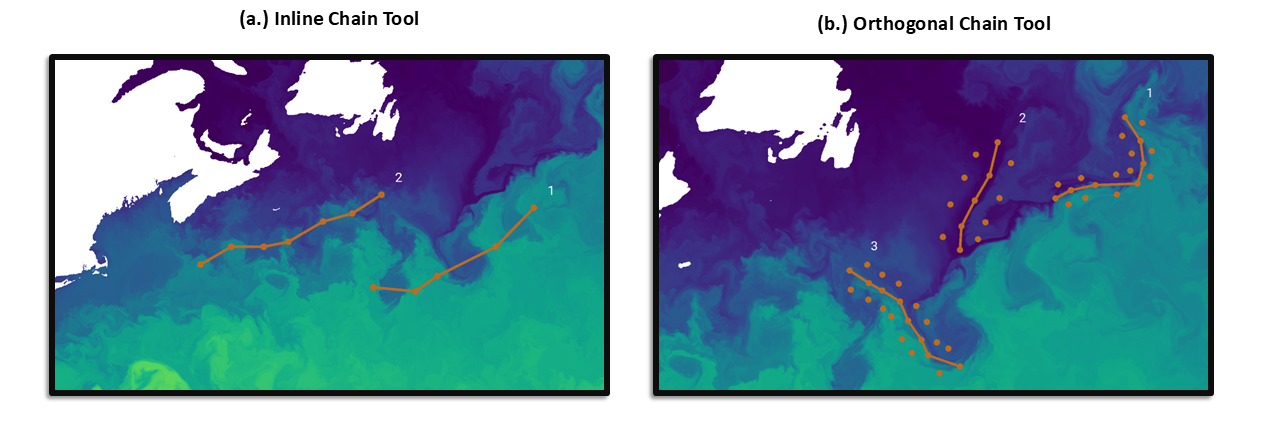
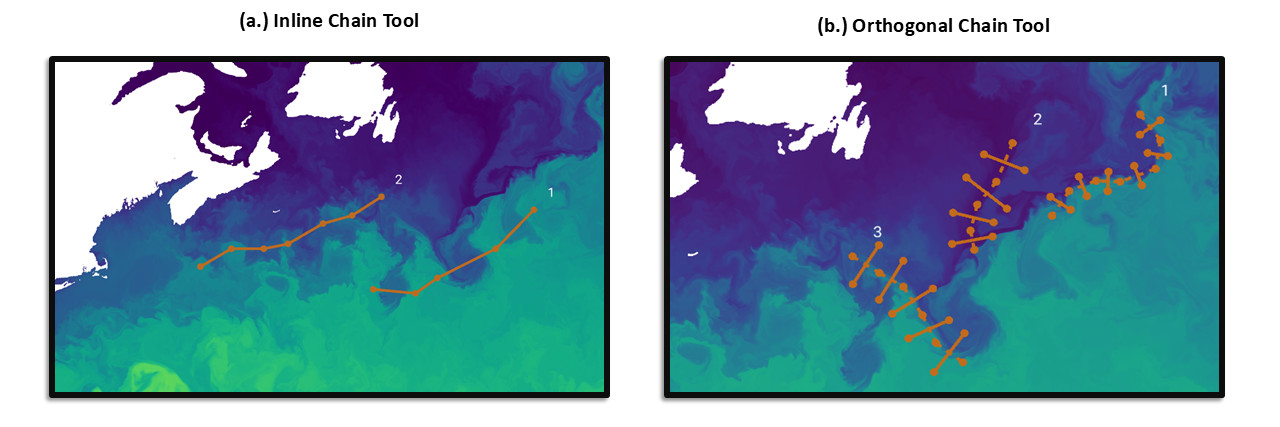
More clear visualization for orthogonal chain tool

diff --git a/src/nccut/orthogonalchain.py b/src/nccut/orthogonalchain.py
@@ -7,6 +7,7 @@ Singular orthogonal chain widget.
 
 Graphics and functionality of a singular orthogonal chain created by the orthogonal chain tool.
 """
+import copy
 
 import kivy.uix as ui
 from kivy.metrics import dp
@@ -16,6 +17,23 @@ import math
 import numpy as np
 from kivy.core.window import Window
 import nccut.functions as functions
+
+
+class Click:
+    """
+    Object that mimics a user click.
+
+    Attributes:
+        x (float): X coordinate of click point
+        y (float): Y coordinate of click point
+        pos (tuple): 2 element tuple: (X coord, Y coord)
+    """
+    def __init__(self, x, y):
+        self.x = x
+        self.y = y
+        self.pos = (x, y)
+        self.is_double_tap = False
+        self.button = "left"
 
 
 class OrthogonalChain(ui.widget.Widget):
@@ -32,7 +50,6 @@ class OrthogonalChain(ui.widget.Widget):
         t_width (int): Current width in pixels of orthogonal transects
         home: Reference to root :class:`nccut.homescreen.HomeScreen` instance
         transects (list): List of transects made
-        curr_line: kivy.graphics.Line, Line between cursor and last clicked
         number: kivy.uix.label.Label, Reference to the number label
         size: 2 element array of ints, Size of widget
         pos: 2 element array of ints, Position of widget
@@ -55,7 +72,6 @@ class OrthogonalChain(ui.widget.Widget):
         self.uploaded = False
         self.home = home
         self.transects = []
-        self.curr_line = Line()
         self.number = None
         self.size = self.home.display.size
         self.pos = self.home.display.pos
@@ -93,7 +109,6 @@ class OrthogonalChain(ui.widget.Widget):
         for g in groups:
             for i in g:
                 self.canvas.add(i)
-        self.canvas.add(self.curr_line)
         if self.clicks > 0:
             self.add_widget(self.number)
 
@@ -104,20 +119,15 @@ class OrthogonalChain(ui.widget.Widget):
         Args:
             value (float): New graphics size
         """
-        self.line_width = dp(value / 5)
-        for c in range(1, self.clicks + 1):
-            group = self.canvas.get_group(str(c))
-            for i in group:
-                if isinstance(i, Ellipse):
-                    i.size = (dp(value), dp(value))
-                    i.pos = (i.pos[0] + self.c_size[0] / 2 - dp(value) / 2,
-                             i.pos[1] + self.c_size[1] / 2 - dp(value) / 2)
-                elif isinstance(i, Line):
-                    i.width = self.line_width
-        if self.clicks > 0:
-            self.number.font_size = dp(value) * 2
-        self.curr_line.width = self.line_width
         self.c_size = (dp(value), dp(value))
+        self.line_width = dp(value / 5)
+        points = copy.copy(self.points)
+        for c in range(self.clicks):
+            self.del_point()
+        for p in points:
+            self.update_width(p[2])
+            self.on_touch_down(Click(p[0], p[1]))
+        self.stop_drawing()
 
     def update_width(self, width):
         """
@@ -139,19 +149,20 @@ class OrthogonalChain(ui.widget.Widget):
         """
         self.uploaded = val
 
-    def get_orthogonal(self, line):
+    def get_orthogonal(self, line_start, line_end):
         """
         Get a line orthogonal to line drawn by user to use as transect.
 
         Args:
-            line: kivy.graphics.Line, line between two last clicked points
+            line_start: x, y of start point
+            line_end: x, y of end point
 
         Returns:
             4 element array of floats: Coordinates of the two endpoints of the centered
             orthogonal line with length t_width.
         """
         xyswap = False
-        line = line.points
+        line = line_start + line_end
 
         if line[0] > line[2]:  # Always read from left point to right
             line = [line[2], line[3], line[0], line[1]]
@@ -183,12 +194,13 @@ class OrthogonalChain(ui.widget.Widget):
         yarr = (xarr * m + b).tolist()
         xarr = xarr.tolist()
 
-        # Draw points at ends of transect
+        # Draw points at ends of transect and line between them
         with self.canvas:
             Color(self.l_color.r, self.l_color.g, self.l_color.b)
             coords = [xarr[0], yarr[0], xarr[-1], yarr[-1]]
             if xyswap:
                 coords = [yarr[0], xarr[0], yarr[-1], xarr[-1]]
+            Line(points=[coords[0:2], coords[2:]], width=self.line_width, group=str(self.clicks))
             Ellipse(pos=(coords[0] - self.c_size[0] / 2, coords[1] - self.c_size[1] / 2),
                     size=self.c_size, group=str(self.clicks))
             Ellipse(pos=(coords[2] - self.c_size[0] / 2, coords[3] - self.c_size[1] / 2),
@@ -242,24 +254,19 @@ class OrthogonalChain(ui.widget.Widget):
                 Ellipse(pos=(touch.x - self.c_size[0] / 2, touch.y - self.c_size[1] / 2),
                         size=self.c_size, group=str(self.clicks))
                 self.points.append((touch.x, touch.y, self.t_width))
-                self.curr_line = Line(points=[], width=self.line_width, group=str(self.clicks + 1))
             # Draw line between last point and cursor whenever cursor position changes
             Window.bind(mouse_pos=self.draw_line)
             if self.clicks != 1:
-                # If 2nd or more click, create a line inbetween click points
-                with self.canvas:
-                    Color(self.l_color.r, self.l_color.g, self.l_color.b)
-                    line = Line(points=[self.points[-2][0:2], self.points[-1][0:2]],
-                                width=self.line_width, group=str(self.clicks))
+                # If 2nd or more click, create a dashed line inbetween click points
+                self.draw_dashed_line(str(self.clicks), self.points[-2][0:2], self.points[-1][0:2])
                 # Stores orthogonal line
-                coords = self.get_orthogonal(line)
+                coords = self.get_orthogonal(self.points[-2][0:2], self.points[-1][0:2])
                 if self.in_bounds(coords):
                     # Check if orthogonal points are within image bounds
                     self.transects.append(Line(points=coords, width=self.line_width))
                 else:
                     # Undo actions and alert user or parent
                     self.canvas.remove_group(str(self.clicks))
-                    self.canvas.remove(self.curr_line)
                     self.clicks -= 1
                     self.points = self.points[:-1]
                     if self.uploaded:
@@ -287,9 +294,8 @@ class OrthogonalChain(ui.widget.Widget):
             if self.home.ids.view.collide_point(*self.home.ids.view.to_widget(*pos)):
                 mouse = self.to_widget(*pos)
                 if self.size[0] >= mouse[0] >= 0 and self.size[1] >= mouse[1] >= 0:
-                    with self.canvas:
-                        Color(self.l_color.r, self.l_color.g, self.l_color.b)
-                        self.curr_line.points = [self.points[-1][0:2], self.to_widget(pos[0], pos[1])]
+                    self.canvas.remove_group("temp")
+                    self.draw_dashed_line("temp", self.points[-1][0:2], self.to_widget(pos[0], pos[1]))
         else:
             # Don't draw if not current chain or in dragging mode
             self.stop_drawing()
@@ -298,9 +304,7 @@ class OrthogonalChain(ui.widget.Widget):
         """
         Remove line from most recent point to cursor.
         """
-        with self.canvas:
-            Color(self.l_color.r, self.l_color.g, self.l_color.b)
-            self.curr_line.points = self.curr_line.points[0:2]
+        self.canvas.remove_group("temp")
 
     def in_bounds(self, points):
         """
@@ -316,3 +320,47 @@ class OrthogonalChain(ui.widget.Widget):
             if min(d) < 0 or any([i[0] > i[1] for i in list(zip(d, self.size))]):
                 return False
         return True
+
+    def draw_dashed_line(self, group, start, end):
+        """
+        Draws a dashed line on the canvas between two points.
+
+        Args:
+            group: Canvas group to group line segments in
+            start: Tuple of (x, y) coordinates for the start point.
+            end: Tuple of (x, y) coordinates for the end point.
+        """
+        dash_length = self.line_width * 4
+        dash_gap = dash_length
+        x1, y1 = start
+        x2, y2 = end
+
+        # Calculate the total distance between start and end points
+        distance = np.sqrt((x2 - x1) ** 2 + (y2 - y1) ** 2)
+
+        # Calculate the direction unit vector (dx, dy)
+        dx = (x2 - x1) / distance
+        dy = (y2 - y1) / distance
+
+        # Total number of segments (dash + gap) to cover the distance
+        segment_length = dash_length + dash_gap
+        num_segments = int(distance // segment_length)
+
+        with self.canvas:
+            Color(self.l_color.r, self.l_color.g, self.l_color.b)  # Set the color for the line
+            for i in range(num_segments + 1):
+                # Start point of the dash segment
+                segment_start_x = x1 + i * segment_length * dx
+                segment_start_y = y1 + i * segment_length * dy
+
+                # End point of the dash segment
+                segment_end_x = segment_start_x + dash_length * dx
+                segment_end_y = segment_start_y + dash_length * dy
+
+                # Clip the last segment to the endpoint if it exceeds the total length
+                if np.sqrt((segment_end_x - x1) ** 2 + (segment_end_y - y1) ** 2) > distance:
+                    segment_end_x, segment_end_y = x2, y2
+
+                # Draw the segment
+                Line(points=[segment_start_x, segment_start_y, segment_end_x, segment_end_y],
+                     width=self.line_width, cap="none", group=group)

diff --git a/src/nccut/multiorthogonalchain.py b/src/nccut/multiorthogonalchain.py
@@ -195,9 +195,12 @@ class MultiOrthogonalChain(ui.widget.Widget):
         """
         Opens native operating system file browser to allow user to select their project file
         """
-        path = filechooser.open_file(filters=["*.json"])
-        if path is not None and len(path) != 0:
-            self.check_file(path[0])
+        try:
+            path = filechooser.open_file(filters=["*.json"])
+            if path is not None and len(path) != 0:
+                self.check_file(path[0])
+        except Exception as e:
+            func.alert_popup("Cannot upload project files at this time")
 
     def check_file(self, file):
         """
